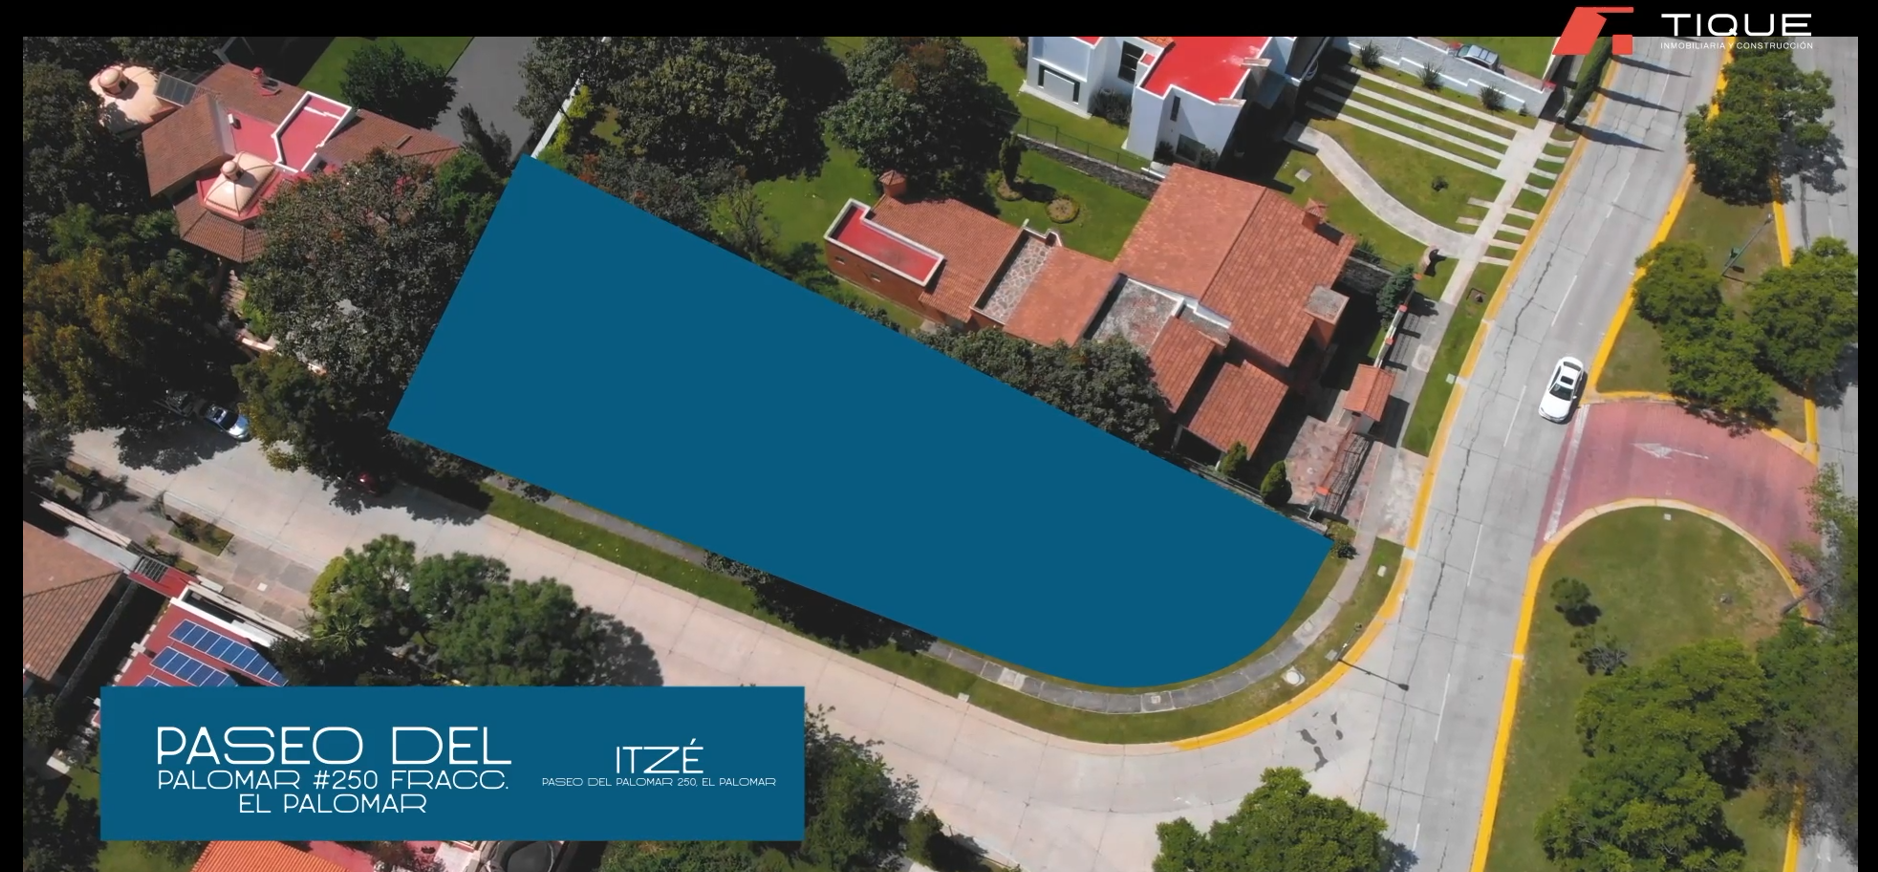
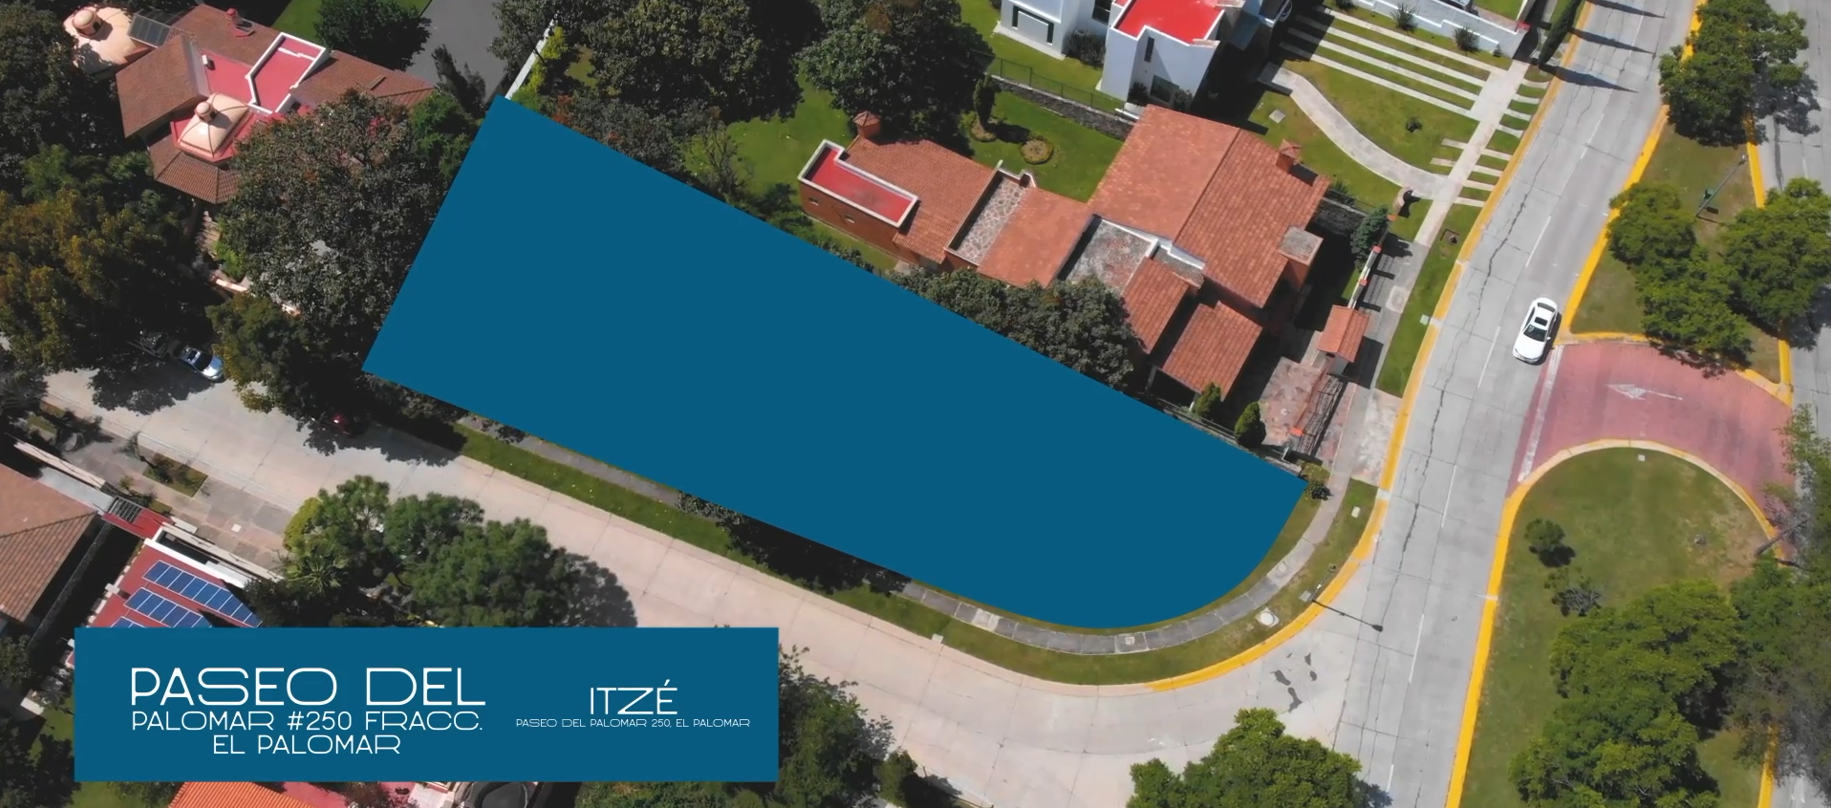
v0.158.9 se recortan imagenes de lotes para quitar margenes negros

diff --git a/assets/css/cambios.css b/assets/css/cambios.css
@@ -972,3 +972,6 @@ transparente:hover{-webkit-transform: rotate(360deg);transform: rotate(360deg);
 .sin_redondeo_borde{
     border-radius:0px;
 }
+.margen-5{
+    margin: -5px;
+}

diff --git a/templates/detalles/_detalles_hogar_general.php b/templates/detalles/_detalles_hogar_general.php
@@ -74,7 +74,7 @@ if($wt_tipo_inmueble > 0){
             <li  class="li_img_hogar mergen_lateral_vw1" >
                 <div>
                     <div class="img_detalles">
-                    <img id="imagen_slider sin_redondeo_borde" src="<?php echo $generales->url_base; ?>assets/img/iconos_hogar_detalles/habitacion.png" alt="Lote itze" height="80%"/>
+                    <img id="imagen_slider " class="sin_redondeo_borde" src="<?php echo $generales->url_base; ?>assets/img/iconos_hogar_detalles/habitacion.png" alt="Lote itze" height="80%"/>
                     </div>
                     <h3 class="texto_icono_hogar"><?php echo $recamara_hogar; ?></h3>
                 </div>
@@ -83,7 +83,7 @@ if($wt_tipo_inmueble > 0){
             <li  class="li_img_hogar mergen_lateral_vw1" >
                 <div>
                     <div class="img_detalles">
-                    <img id="imagen_slider" src="<?php echo $generales->url_base; ?>assets/img/iconos_hogar_detalles/baño.png" alt="Lote itze" height="80%"/>
+                    <img id="imagen_slider" class="sin_redondeo_borde" src="<?php echo $generales->url_base; ?>assets/img/iconos_hogar_detalles/baño.png" alt="Lote itze" height="80%"/>
                     </div>
                         <h3 class="texto_icono_hogar"><?php echo $banio_hogar; ?></h3>
                 </div>
@@ -91,12 +91,12 @@ if($wt_tipo_inmueble > 0){
             <li  class="li_img_hogar mergen_lateral_vw1" >
                 <div>
                     <div class="img_detalles">
-                    <img id="imagen_slider " src="<?php echo $generales->url_base; ?>assets/img/iconos_hogar_detalles/cochera.png" alt="Lote itze" height="80%"/>
+                    <img id="imagen_slider" class="sin_redondeo_borde" src="<?php echo $generales->url_base; ?>assets/img/iconos_hogar_detalles/cochera.png" alt="Lote itze" height="80%"/>
                     </div>
                         <h3 class="texto_icono_hogar"><?php echo $estacionamiento_hogar; ?></h3>
                 </div>
             </li>
-            <li  class="li_img_hogar mergen_lateral_vw1" style="height: 90px;">
+            <li  class="li_img_hogar" class="sin_redondeo_borde" style="height: 90px;">
                 <div>
                     <div class="img_detalles">
                     <img id="imagen_slider sin_redondeo_borde" src="<?php echo $generales->url_base; ?>assets/img/iconos_hogar_detalles/patio.png" alt="Lote itze" height="80%"/>
@@ -107,7 +107,7 @@ if($wt_tipo_inmueble > 0){
             <li  class="li_img_hogar mergen_lateral_vw1" >
                 <div>
                     <div class="img_detalles">
-                    <img id="imagen_slider" src="<?php echo $generales->url_base; ?>assets/img/iconos_hogar_detalles/tipo_hogar.png" alt="Lote itze" height="80%"/>
+                    <img id="imagen_slider" class="sin_redondeo_borde" src="<?php echo $generales->url_base; ?>assets/img/iconos_hogar_detalles/tipo_hogar.png" alt="Lote itze" height="80%"/>
                     </div>
                     <h3 class="texto_icono_hogar"><?php echo $tipo_hogar." ".$niveles_label." ".$niveles_hogar; ?></h3>
                 </div>
@@ -115,7 +115,7 @@ if($wt_tipo_inmueble > 0){
             <li  class="li_img_hogar mergen_lateral_vw1" >
                 <div>
                     <div class="img_detalles">
-                    <img id="imagen_slider sin_redondeo_borde" src="<?php echo $generales->url_base; ?>assets/img/iconos_hogar_detalles/construccion.png" alt="Lote itze" height="80%"/>
+                    <img id="imagen_slider " class="sin_redondeo_borde" src="<?php echo $generales->url_base; ?>assets/img/iconos_hogar_detalles/construccion.png" alt="Lote itze" height="80%"/>
                     </div>
                     <h3 class="texto_icono_hogar"><?php echo $construccion_hogar; ?></h3>
                 </div>
@@ -124,7 +124,7 @@ if($wt_tipo_inmueble > 0){
         <li  class="li_img_hogar mergen_lateral_vw1" >
             <div>
                 <div class="img_detalles">
-                    <img id="imagen_slider"    src="<?php echo $generales->url_base; ?>assets/img/iconos_hogar_detalles/terreno.png" alt="Lote itze" height="80%"/>
+                    <img id="imagen_slider" class="sin_redondeo_borde" src="<?php echo $generales->url_base; ?>assets/img/iconos_hogar_detalles/terreno.png" alt="Lote itze" height="80%"/>
                 </div>
 
                 <div style="float: left">
@@ -137,7 +137,7 @@ if($wt_tipo_inmueble > 0){
             <li  class="li_img_hogar mergen_lateral_vw1">
                 <div>
                     <div class="img_detalles" >
-                        <img id="imagen_slider"  src="<?php echo $generales->url_base; ?>assets/img/iconos_hogar_detalles/dimencion.png" alt="Lote itze" height="80%"/>
+                        <img id="imagen_slider" class="sin_redondeo_borde" src="<?php echo $generales->url_base; ?>assets/img/iconos_hogar_detalles/dimencion.png" alt="Lote itze" height="80%"/>
                     </div>
 
                     <h3 class="texto_icono_hogar"><?php echo $construccion_hogar; ?></h3>
@@ -146,7 +146,7 @@ if($wt_tipo_inmueble > 0){
             <li  class="li_img_hogar mergen_lateral_vw1">
                 <div>
                     <div class="img_detalles" >
-                    <img id="imagen_slider" src="<?php echo $generales->url_base; ?>assets/img/iconos_hogar_detalles/tipo_hogar.png" alt="Lote itze" height="80%"/>
+                    <img id="imagen_slider" class="sin_redondeo_borde" src="<?php echo $generales->url_base; ?>assets/img/iconos_hogar_detalles/tipo_hogar.png" alt="Lote itze" height="80%"/>
                     </div>
                     <h3 class="texto_icono_hogar"><?php echo $tipo_hogar; ?></h3>
                 </div>
